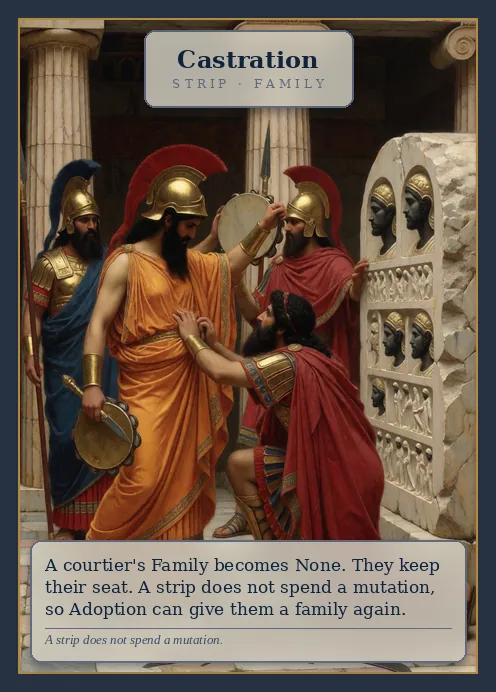
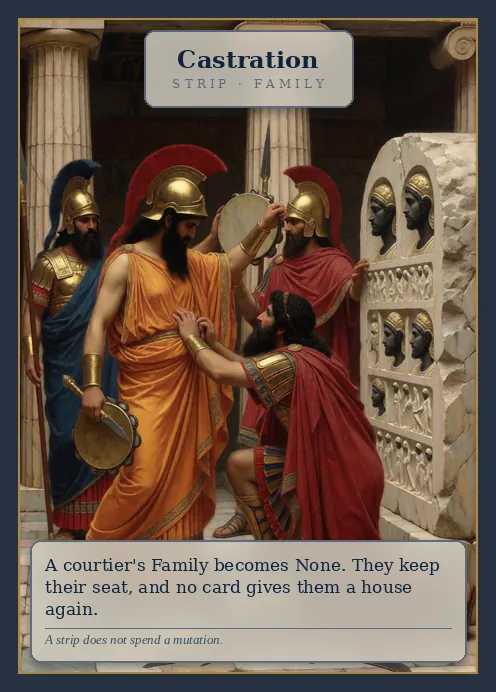
Drop Adoption from the deck
Houses now change only by Castration. Adoption stays behind
Config.adoption (and --adoption) so old records replay; its art keeps
its number, so the printed deck has a gap at 82. Over 3,000 games the
agendas' win rates narrow from 21.3-32.1% to 24.2-30.2%.

New first-game seed (498, House Rising: Mitreas) and new seeds for the
event and block browser tests.

Claude-Session: https://claude.ai/code/session_01N33ZYiZig83JtVZBownZVB

Changed region(s): [[0.0907, 0.8194, 0.877, 0.9104]]

diff --git a/web/tests/game.spec.ts b/web/tests/game.spec.ts
@@ -39,14 +39,14 @@ test("a new player's first game is the kind deal, unless they choose a seed", as
   await setSeed(page, "");
   await page.getByTestId("deal").click();
   // You move first, with House Rising: Mitreas.
-  await expect(page.getByTestId("briefing").locator("h2")).toHaveText("House Rising: Argaian");
+  await expect(page.getByTestId("briefing").locator("h2")).toHaveText("House Rising: Mitreas");
   await expect(page.getByTestId("briefing")).toContainText("You move first.");
 });
 
 test("an event stops play and says what it did", async ({ page }) => {
-  // Seed 18: a bot draws Caravan before your first turn, and it plays at once.
+  // Seed 23: a bot draws Caravan before your first turn, and it plays at once.
   const errors: string[] = [];
-  await start(page, errors, 18);
+  await start(page, errors, 23);
   await page.getByTestId("begin").click();
   const event = page.getByTestId("event");
   await expect(event).toBeVisible({ timeout: 30_000 });
@@ -67,9 +67,9 @@ test("an event stops play and says what it did", async ({ page }) => {
 });
 
 test("an event that asks you something is announced first", async ({ page }) => {
-  // Seed 6: a bot draws Debasement of the Coinage before your first turn.
+  // Seed 48: a bot draws Debasement of the Coinage before your first turn.
   const errors: string[] = [];
-  await start(page, errors, 6);
+  await start(page, errors, 48);
   await page.getByTestId("begin").click();
   const announce = page.getByTestId("event-announce");
   await expect(announce).toBeVisible({ timeout: 30_000 });
@@ -438,20 +438,20 @@ test("the table shows the round, who plays next, and names each bot's move", asy
 });
 
 test("a rival's attack on a courtier your Defense covers can be blocked", async ({ page }) => {
-  // Seed 1: taking the first move each time, a bot plays Take Vows on Master
-  // Swordsmith on your ninth decision, and your hand holds his shield.
+  // Seed 8: after your first move, a bot plays Heresy Accusation on Hand of
+  // the Oracle, and your hand holds Patron Protection.
   const errors: string[] = [];
-  await start(page, errors, 1);
+  await start(page, errors, 8);
   const block = page.getByTestId("block");
   for (let i = 0; i < 30 && !(await block.isVisible()); i++) {
     await playFromList(page);
     await settle(page);
   }
-  await expect(block).toContainText("plays Take Vows on Master Swordsmith");
+  await expect(block).toContainText("plays Heresy Accusation on Hand of the Oracle");
   await expect(page.locator(".card.attacked")).toHaveCount(1);
   await block.getByTestId("block-with").first().click();
   await settle(page);
   await showPanel(page, "log");
-  await expect(page.getByRole("list", { name: "Game log" })).toContainText("Master Swordsmith is untouched");
+  await expect(page.getByRole("list", { name: "Game log" })).toContainText("Hand of the Oracle is untouched");
   expect(errors).toEqual([]);
 });

diff --git a/web/src/firstGame.ts b/web/src/firstGame.ts
@@ -1,11 +1,11 @@
 // A new player's first game is dealt from one kind seed rather than a random
-// one: you move first, holding House Rising: Argaian with two Argaian
+// one: you move first, holding House Rising: Mitreas with two Mitreas
 // courtiers in hand. tools/friendly_seed.py found it; with a bot in your
-// chair the naive, greedy and strategic bots all win from it, and a player
-// choosing at random wins 7 games in 30 (about one in fifteen on a random
+// chair the greedy and strategic bots both win from it, and a player
+// choosing at random wins 10 games in 30 (about one in fifteen on a random
 // deal). tests/test_friendly_seed.py keeps the engine from quietly changing it.
 
-export const FIRST_GAME_SEED = 2791;
+export const FIRST_GAME_SEED = 498;
 
 /** The table the seed was chosen for: you and one of each bot, in this order. */
 export const FIRST_GAME_TABLE = ["naive", "greedy", "strategic"];

diff --git a/web/src/components/CardView.tsx b/web/src/components/CardView.tsx
@@ -106,7 +106,6 @@ const BY_NAME: Record<string, string> = {
   Apostasy: "Faith → Godless",
   "Go Native": "Origin → Barbarian",
   Assimilate: "Origin → Imperial",
-  Adoption: "House → another",
   Castration: "House → none",
   Excommunication: "Faith → Godless",
   "Targeted Poisoning": "Kill, if no save",

diff --git a/tests/test_rules.py b/tests/test_rules.py
@@ -208,10 +208,10 @@ class TestData(unittest.TestCase):
         self.assertEqual(kinds[CardKind.REMOVAL], 6)
         self.assertEqual(kinds[CardKind.DEFENSE], 5)
         self.assertEqual(kinds[CardKind.STRIP], 2)
-        self.assertEqual(kinds[CardKind.MUTATION], 9)
+        self.assertEqual(kinds[CardKind.MUTATION], 8)
         self.assertEqual(kinds[CardKind.PIVOT], 1)
         self.assertEqual(kinds[CardKind.OUTMANEUVER], 1)
-        self.assertEqual(len(cards), 84)
+        self.assertEqual(len(cards), 83)
 
     def test_every_house_fields_one_charioteer(self):
         """A house's charioteer is its only route to the Master of the Market's seat."""
@@ -439,7 +439,7 @@ class TestDemotionsStripsMutations(unittest.TestCase):
         self.assertIs(state.cstate[target].faith, Faith.NONE)
 
     def test_adoption_gives_any_house_but_their_own(self):
-        state = fresh()
+        state = fresh(adoption=True)
         adopt = give(state, 0, "Adoption")[0]
         target = outer(state, "Crosser of Rivers")[0]  # Mitreas
         options = {a.value for a in card_actions(state, 0, adopt) if a.courtier == target}
@@ -450,7 +450,7 @@ class TestDemotionsStripsMutations(unittest.TestCase):
         self.assertTrue(state.cstate[target].mutated_family)
 
     def test_old_rules_adoption_sacrifices_a_family_courtier(self):
-        state = fresh(courtier_costs=True)
+        state = fresh(courtier_costs=True, adoption=True)
         adopt, donor = give(state, 0, "Adoption", "Beloved of the Gods")
         target = outer(state, "Silver Tongue")[0]  # no family
         action = next(
@@ -460,6 +460,10 @@ class TestDemotionsStripsMutations(unittest.TestCase):
         apply_action(state, 0, action, FixedRng())
         self.assertIs(state.cstate[target].family, Family.AMONIDES)
         self.assertIn(donor, state.discard)
+
+    def test_adoption_is_out_of_the_deck(self):
+        self.assertNotIn("Adoption", {c.name for c in build_cards()})
+        self.assertIn("Adoption", {c.name for c in build_cards(adoption=True)})
 
     def test_castration_clears_family(self):
         state = fresh()
@@ -1125,7 +1129,7 @@ class TestDeckAndTurns(unittest.TestCase):
         state = GameState.new(config)
         events = sorted(c.name for c in state.cards if c.kind.value == "Event")
         self.assertEqual(events, sorted(c.name for c in EVENT_CARDS if c.tier == "minor"))
-        self.assertEqual(len(state.cards), 79)
+        self.assertEqual(len(state.cards), 78)
 
     def test_either_half_of_the_events_can_be_left_out(self):
         from succession.cards import EVENT_CARDS
@@ -1133,7 +1137,7 @@ class TestDeckAndTurns(unittest.TestCase):
         for tier in ("minor", "major"):
             state = GameState.new(Config(event_tiers=(tier,)))
             names = {c.name for c in state.cards}
-            self.assertEqual(len(state.cards), 79)
+            self.assertEqual(len(state.cards), 78)
             for c in EVENT_CARDS:
                 self.assertEqual(c.name in names, c.tier == tier)
 

diff --git a/succession/cards.py b/succession/cards.py
@@ -140,10 +140,12 @@ MUTATION_CARDS: tuple[CardDef, ...] = (
     CardDef("Apostasy", CardKind.MUTATION, attribute="faith", value=Faith.GODLESS.value),
     CardDef("Go Native", CardKind.MUTATION, attribute="origin", value=Origin.BARBARIAN.value),
     CardDef("Assimilate", CardKind.MUTATION, attribute="origin", value=Origin.IMPERIAL.value),
-    # Adoption: any house you choose (or, with Config.courtier_costs, the
-    # house of a family courtier sacrificed from hand).
-    CardDef("Adoption", CardKind.MUTATION, attribute="family"),
 )
+
+#: Out of the deck (Config.adoption brings it back, for old records): any
+#: house you choose, or, with Config.courtier_costs, the house of a family
+#: courtier sacrificed from hand.
+ADOPTION_CARD = CardDef("Adoption", CardKind.MUTATION, attribute="family")
 
 PIVOT_CARDS: tuple[CardDef, ...] = (
     CardDef("Schismatic Event", CardKind.PIVOT),
@@ -152,7 +154,9 @@ PIVOT_CARDS: tuple[CardDef, ...] = (
 OUTMANEUVER_CARD = CardDef("Outmaneuver", CardKind.OUTMANEUVER)
 
 
-def build_cards(outmaneuver_copies: int = 1, event_tiers: tuple[str, ...] = ("minor", "major")) -> tuple[CardDef, ...]:
+def build_cards(
+    outmaneuver_copies: int = 1, event_tiers: tuple[str, ...] = ("minor", "major"), adoption: bool = False
+) -> tuple[CardDef, ...]:
     """Return every card in the play deck, indexed by position (its uid).
 
     `event_tiers` leaves out the minor or major half of the events -- a
@@ -168,6 +172,8 @@ def build_cards(outmaneuver_copies: int = 1, event_tiers: tuple[str, ...] = ("mi
     cards.extend(DEFENSE_CARDS)
     cards.extend(STRIP_CARDS)
     cards.extend(MUTATION_CARDS)
+    if adoption:
+        cards.append(ADOPTION_CARD)
     cards.extend(PIVOT_CARDS)
     cards.extend(OUTMANEUVER_CARD for _ in range(outmaneuver_copies))
     return tuple(cards)

diff --git a/succession/runner.py b/succession/runner.py
@@ -102,6 +102,7 @@ def build_config(args: argparse.Namespace, tiers=BOT_TIERS) -> Config:
         excommunication_godless=not args.excommunication_none,
         courtier_costs=args.courtier_costs,
         reactive_defense=not args.attached_defense,
+        adoption=args.adoption,
         house_rising_requires_preferred_seat=not args.house_any_three,
         house_preferred_estates=parse_preferred_estates(args.house_preferred_estates),
         faith_seats=args.faith_seats,
@@ -222,6 +223,7 @@ def add_rules_arguments(parser: argparse.ArgumentParser, players: str = DEFAULT_
     parser.add_argument("--minor-events-on-draw", action="store_true", help="with --events all: only the minor events play when drawn; the majors are held")
     parser.add_argument("--removed-out-of-game", action="store_true", help="killed courtiers never return (default: they may reshuffle back as a new person)")
     parser.add_argument("--attached-defense", action="store_true", help="variant: a Defense is attached to a courtier in advance, on your own turn (the old rules)")
+    parser.add_argument("--adoption", action="store_true", help="variant: put Adoption (a courtier's house becomes another) back in the deck")
     parser.add_argument("--courtier-costs", action="store_true", help="variant: Defenses and Adoption cost a courtier from your hand (the old rules)")
     parser.add_argument("--excommunication-none", action="store_true", help="variant: Excommunication leaves an empty faith (None) rather than Godless")
     parser.add_argument("--defense-matches-target", action="store_true", help="an estate Defense may only protect a courtier of that estate")

diff --git a/tools/card_text.py b/tools/card_text.py
@@ -172,8 +172,8 @@ RULES: dict[str, str] = {
     # A strip empties the slot without spending the courtier's one mutation,
     # so the attribute can be filled again later.
     "Castration": (
-        "A courtier's Family becomes None. They keep their seat. A strip does "
-        "not spend a mutation, so Adoption can give them a family again."
+        "A courtier's Family becomes None. They keep their seat, and no card "
+        "gives them a house again."
     ),
     "Excommunication": (
         "A courtier's Faith becomes Godless. They keep their seat. A strip "
@@ -208,10 +208,6 @@ RULES: dict[str, str] = {
     ),
     "Go Native": "A courtier's Origin becomes Barbarian.",
     "Assimilate": "A courtier's Origin becomes Imperial.",
-    "Adoption": (
-        "A courtier's House becomes any house but their own; you choose it. A "
-        "courtier of no house may be brought into any of the three."
-    ),
     # --- Pivot and Outmaneuver ----------------------------------------------
     "Schismatic Event": (
         "Discard your agenda and draw a new one from the pool of agendas "

diff --git a/succession/state.py b/succession/state.py
@@ -75,6 +75,9 @@ class Config:
     #: now): a Defense's estate says whom it can shield instead of what it
     #: costs, and Adoption picks the new house freely, like Conversion.
     courtier_costs: bool = False
+    #: Adoption (a courtier's house becomes another) is in the deck. Off:
+    #: houses change only by Castration.
+    adoption: bool = False
     #: A Defense is played from hand when a seated courtier of its estate is
     #: attacked, by any player but the attacker, and the attack fails. Off:
     #: the older rule, attached to a courtier in advance on your own turn.
@@ -189,7 +192,7 @@ class GameState:
     # -- construction -------------------------------------------------------
     @classmethod
     def new(cls, config: Config) -> "GameState":
-        cards = build_cards(config.outmaneuver_copies, config.event_tiers)
+        cards = build_cards(config.outmaneuver_copies, config.event_tiers, config.adoption)
         state = cls(config=config, cards=cards)
         state.seats = {s: None for s in SEATS}
         state.hands = [[] for _ in range(config.num_players)]

diff --git a/tests/test_session.py b/tests/test_session.py
@@ -406,7 +406,7 @@ class Terminal(unittest.TestCase):
             try:
                 sys.stdin = io.StringIO("1\n2\n1\nq\n")
                 with redirect_stdout(io.StringIO()) as first:
-                    main(["play", "--seed", "8", "--record", str(path)])
+                    main(["play", "--seed", "1", "--record", str(path)])
                 record = json.loads(path.read_text())
                 self.assertEqual(len(record["decisions"]), 3)
 
@@ -433,7 +433,7 @@ class WinningMoves(unittest.TestCase):
         from succession.agendas import AGENDAS_BY_KEY, satisfied
 
         taken = 0
-        for seed in range(40):
+        for seed in range(60):
             session = GameSession(Config(players=(HUMAN, "naive", "greedy", "strategic")), seed)
             me, rng = session.humans[0], random.Random(seed)
             prompt = session.advance()

diff --git a/tests/test_card_text.py b/tests/test_card_text.py
@@ -82,7 +82,7 @@ class TestArtMapping(unittest.TestCase):
     def setUp(self) -> None:
         if not ASSETS_DIR.is_dir():
             self.skipTest("no assets/ directory in this checkout")
-        self.cards = build_cards()
+        self.cards = build_cards(adoption=True)
         self.by_index = assets.scan(ASSETS_DIR)
 
     def test_every_deck_slot_has_art_matching_its_card(self) -> None:
@@ -193,7 +193,7 @@ class TestArtPrompts(unittest.TestCase):
         self.prompts, self.filenames = make_art_prompts.build_lines()
 
     def test_one_prompt_and_one_name_per_card_and_seat(self) -> None:
-        expected = len(build_cards()) + len(SEAT_ESTATE)
+        expected = len(build_cards(adoption=True)) + len(SEAT_ESTATE)
         self.assertEqual(len(self.prompts), expected)
         self.assertEqual(len(self.filenames), expected)
 

diff --git a/tools/cardlist.py b/tools/cardlist.py
@@ -121,9 +121,9 @@ def render(rows: list[Row], back: Row | None, zip_link: str | None = None) -> st
         "# The deck",
         "",
         f"All {total} cards, in the order `succession/cards.py` builds them: the "
-        "79-card play deck, the eight agendas and the seven seats. A card keeps "
-        "the number its art was drawn under, so the five events taken out of "
-        "the deck leave gaps. Every card here is the real print file, trimmed "
+        "78-card play deck, the eight agendas and the seven seats. A card keeps "
+        "the number its art was drawn under, so the cards taken out of the "
+        "deck (five events and Adoption) leave gaps. Every card here is the real print file, trimmed "
         "the way the cutter leaves it.",
         "",
     ]

diff --git a/succession/webapi.py b/succession/webapi.py
@@ -172,7 +172,7 @@ def options() -> str:
     config = Config()
     empty = BoardCounts({}, {}, {}, {}, {}, 0, 0, 0)
     rules = rules_for_config(config)
-    deck = build_cards(config.outmaneuver_copies, config.event_tiers)
+    deck = build_cards(config.outmaneuver_copies, config.event_tiers, config.adoption)
     return json.dumps({
         "player_types": list(PLAYER_TYPES),
         "min_players": MIN_PLAYERS,
